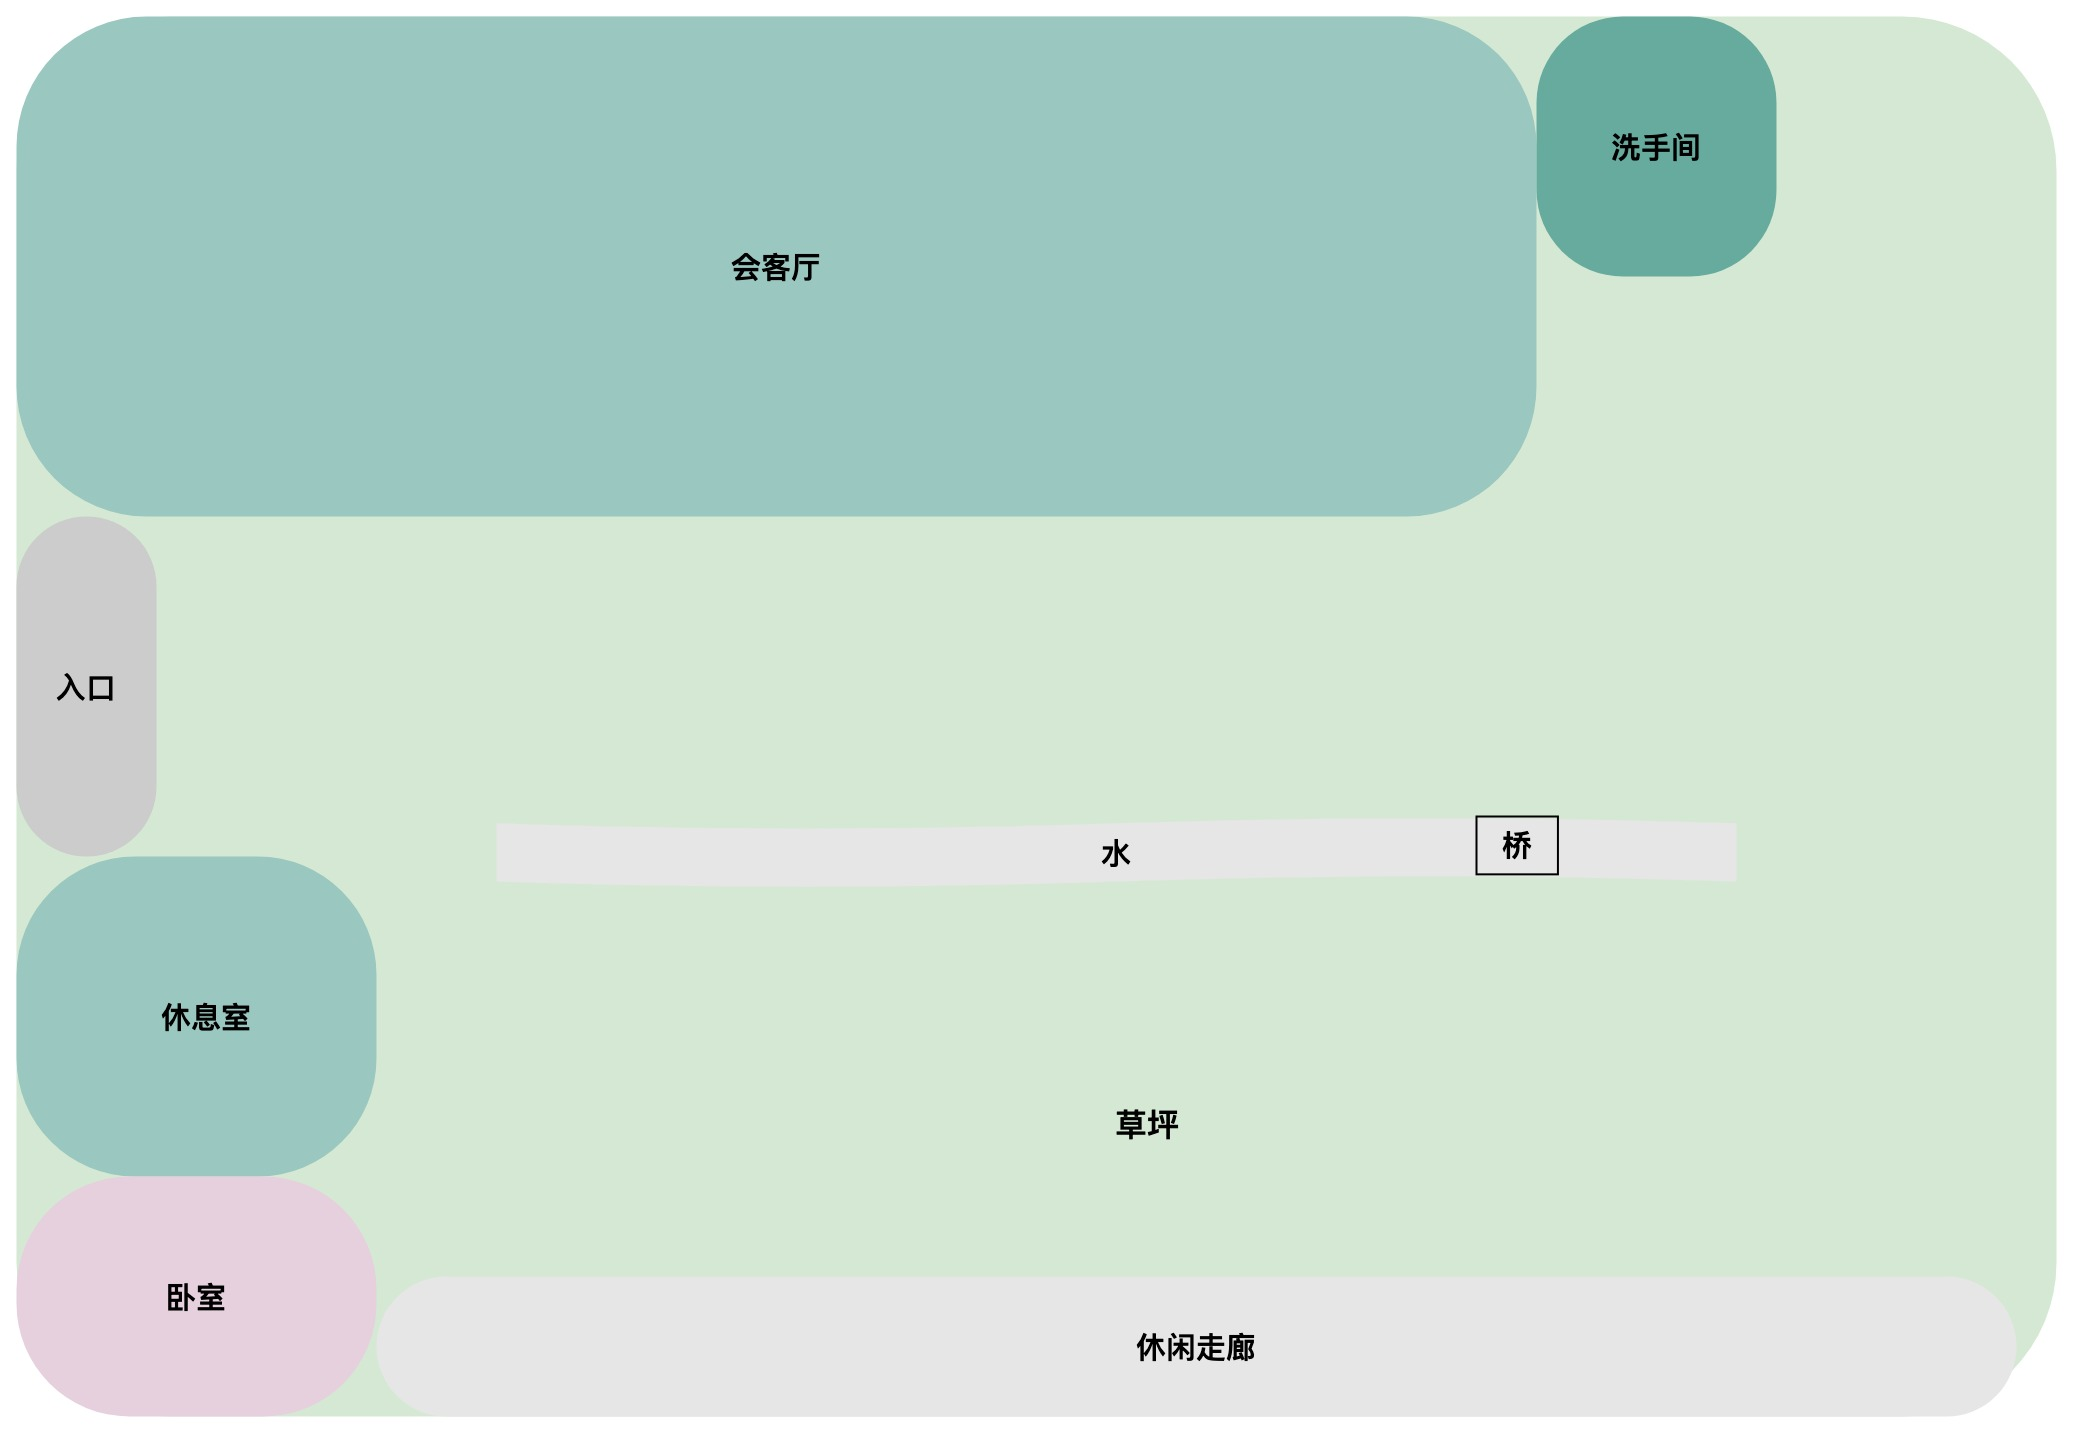
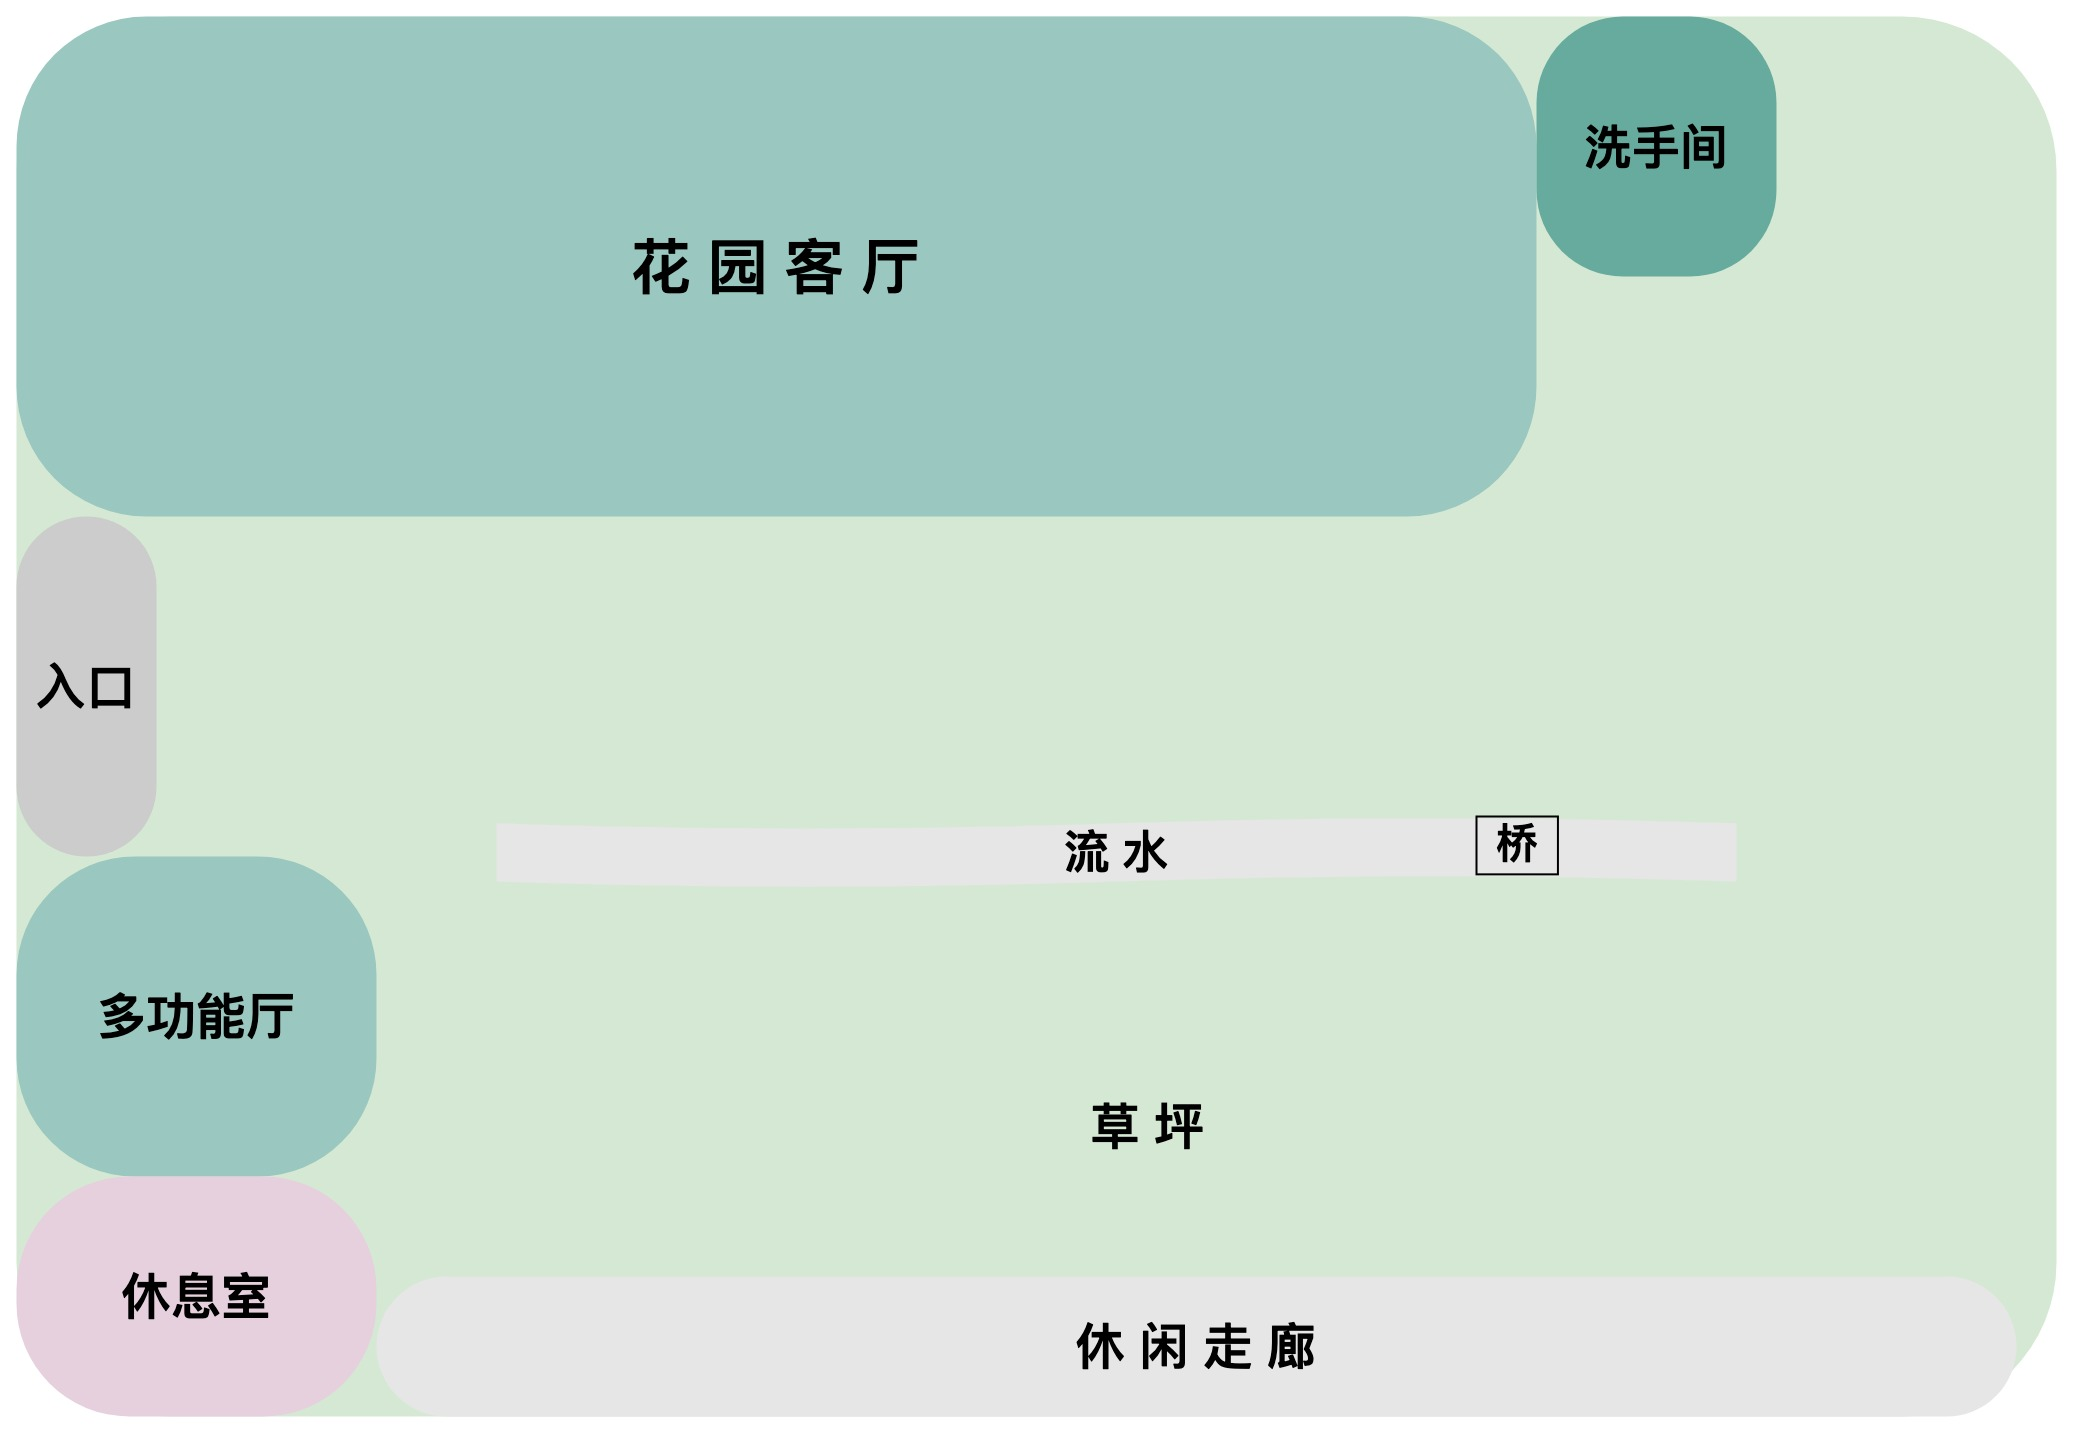
feat:增加若干功能，马上完工版本

diff --git a/pages/about.md b/pages/about.md
@@ -1,38 +1,47 @@
 ---
 layout: page
-title: 时间与场地
+title: 关于场地
 permalink: /about
 ---
 
-#### M&J 婚礼游乐园
+<center><b><font face="黑体" color=black size=6>M&J的婚礼场地</font></b></center>
 
-亲爱的家人与朋友   
-我们诚挚的邀请您参加   
-马武和蒋琳在上海举行的婚礼仪式 
-
----     
-**时间**: 2022.5.14  
-**地点**: [织味时光 位于佘北路180号](https://map.baidu.com/poi/%E7%BB%87%E5%91%B3%E6%97%B6%E5%85%89(%E6%9D%BE%E6%B1%9F%E5%BA%97)/@13488427.66,3629798.61,15z?uid=6e5daa33580b7eae2fe67bb9&ugc_type=3&ugc_ver=1&device_ratio=2&compat=1&pcevaname=pc4.1&querytype=detailConInfo&da_src=shareurl)  
-
-<img alt="织味时光图" src="/assets/img/zhiweishiguang/流程图.jpg" width="100%">
-
+----
+<center>我们选择了织味时光作为我们的婚礼场地</center>
+<center>这里四面环山涉水</center>
+<center>这里有可以打滚的草坪、敞亮的花园客厅</center>
+<center>以及一条开满鲜花的休闲走廊</center>
+<center>这里俨然是一处秘密花园</center>
+<center>让我们相约2022年的春末初夏</center>
+<center>相约秘密花园</center>
 ---
-* 花园客厅      
-欢迎您到这边好好休息，也可以组织朋友在这边桌游或者玩游戏     
-plus: 如果当天下雨，我们会在这里举行室内就餐哦   
-<img alt="花园客厅" src="/assets/img/zhiweishiguang/01.jpg" width="100%">
+<img alt="总图" src="/assets/img/zhiweishiguang/流程图.jpg" width="100%">
+<center><font face="黑体" size=2>场地布局图</font></center>       
 
----
-* 多功能厅   
-欢迎您到这边休息，如果想唱K的话，这里也会支持，此外还有一些电子游戏可以体验  
-<img alt="多功能厅" src="/assets/img/zhiweishiguang/03.jpg" width="100%">
+----
+<center><b><font face="黑体" color=black size=4>｜草坪｜</font></b></center>       
+<center>婚礼的主仪式场地</center>
+<center>此外，如果当天天气适宜</center>
+<center>我们将在这里举行室外长桌自助晚宴</center>  
+<img alt="多功能厅" src="/assets/img/zhiweishiguang/04.jpg" width="100%">  
 
----
-* 草坪       
-婚礼的主仪式场地，此外如果天气OK，我们会在这里举行晚餐   
-<img alt="多功能厅" src="/assets/img/zhiweishiguang/04.jpg" width="100%">
+----
+<center><b><font face="黑体" color=black size=4>｜花园客厅｜</font></b></center> 
+<center>一间通透的玻璃阳光房</center>
+<center>哪怕在室内，依然能感受到绿意盎然</center>
+<center>这里有沙发和长桌，可以供大家休息</center>
+<center><i>Plus: 如果当天下雨，我们会在这里进行就餐噢</i></center>
+<img alt="花园客厅" src="/assets/img/zhiweishiguang/01.jpg" width="100%">   
 
----
-* 休闲走廊    
-这里布置了一些户外座位，可以与三两好友来这里聊天或者小酌一杯      
+----
+<center><b><font face="黑体" color=black size=4>｜多功能厅｜</font></b></center>  
+<center>欢迎大家在这边休息</center>
+<center>这里提供KTV设施及电子游戏</center>
+<center>另外，这里还有桌游及麻将设施</center>
+<img alt="多功能厅" src="/assets/img/zhiweishiguang/03.jpg" width="100%">  
+
+----
+<center><b><font face="黑体" color=black size=4>｜休闲走廊｜</font></b></center> 
+<center>这里布置了一些户外座位</center>
+<center>可以与三两好友在这里聊天或小酌一杯</center>    
 <img alt="多功能厅" src="/assets/img/zhiweishiguang/02.jpg" width="100%">

diff --git a/projects/proj-1.md b/projects/proj-1.md
@@ -3,28 +3,44 @@ layout: post
 title: 'About Us'
 ---
 <center>Hi 我亲爱的家人和朋友</center>
-<center>我们决定于2022年5月14日开始我们人生的新阶段</center>
-<center>你们是我们成长路上最温暖的人，也是我们人生中最重要的部分</center>
+<center>我们决定于</center>
+<center><b>｜2022年5月14日｜</b></center>
+<center>开始我们人生的新阶段</center>
+<center>你们是我们成长路上最温暖的人</center>
 <center>想邀请对我们而言重要的你</center>
 <center>见证一场仪式</center>
 <center>不算盛大却足够用心</center>
-<center>当你们收到这封邀请函，我们已经在倒数着日子，期待着与你们的相见啦</center>
-<center>好久不见，甚是想念，我们婚礼见！</center>
+<center>当你们收到这封邀请函时</center>
+<center>我们已经在倒数着日子 期待着与你们的相见啦</center>
+<center>好久不见，甚是想念 </center>
+<center>我们婚礼见</center>
+-----
 !["we"](/assets/img/wending/01.jpg "We")
 !["we"](/assets/img/wending/06.jpg "We")     
-<center><font face="" color=grey size=5>新娘 蒋琳</font></center> 
+<center><font face="">新娘</font></center> 
+<center><font face=""><b>- 蒋琳 -</b></font></center> 
+<br>
 !["we"](/assets/img/wending/04.jpg "We")
+
+----
 <center>未曾相逢先一笑，初会便已许平生 </center>
-<center>今晚月色真好    </center>
-<center>余生请你指教    </center>
+<center>今晚月色🌙真好    </center>
+<center>余生请你指教    </center>  
+-----
 !["we"](/assets/img/wending/02.jpg "We")
  
-<center><font color=grey size=5>新郎 马武</font></center> 
+<center><font face="">新郎</font></center> 
+<center><font face=""><b>- 马武 -</b></font></center>
+<br>
 !["we"](/assets/img/wending/05.jpg "We")
+
+----
 <center>如这山间清晨一般明亮清爽</center> 
 <center>如奔赴古城道路上阳光一般</center>  
 <center>温暖而不炙热</center>     
 <center>从清晨到夜晚，由山野到书房</center>    
 <center>是你❤真好</center>     
+----
+
 !["we"](/assets/img/wending/08.jpg "We")
 !["we"](/assets/img/wending/09.jpg "We" width="50%" height="50%")

diff --git a/projects/proj-4.md b/projects/proj-4.md
@@ -3,17 +3,19 @@ layout: post
 title: '场地交通'
 ---
 #### 位置  
-知味时光位于📍[松江区佘北路180号](https://map.baidu.com/poi/%E7%BB%87%E5%91%B3%E6%97%B6%E5%85%89(%E6%9D%BE%E6%B1%9F%E5%BA%97)/@13492159.66,3628121.11,13z?uid=6e5daa33580b7eae2fe67bb9&ugc_type=3&ugc_ver=1&device_ratio=2&compat=1&pcevaname=pc4.1&querytype=detailConInfo&da_src=shareurl)
+- 织味时光位于📍[松江区佘北路180号](https://map.baidu.com/poi/%E7%BB%87%E5%91%B3%E6%97%B6%E5%85%89(%E6%9D%BE%E6%B1%9F%E5%BA%97)/@13492159.66,3628121.11,13z?uid=6e5daa33580b7eae2fe67bb9&ugc_type=3&ugc_ver=1&device_ratio=2&compat=1&pcevaname=pc4.1&querytype=detailConInfo&da_src=shareurl)
+
+- 场地坐落于上海月湖雕塑公园旁，从秋月舫主题餐厅-西北门进入可快速到达场地       
+- Tips:上海月湖雕塑公园出入口较多，进园会收取门票    
+  *我们与场地方达成了合作，从秋月舫-西北门进入的各位将不会被收取门票*
+   
 ![pic1](/assets/img/zhiweishiguang/飞书20220213-104348.jpg "1")
 
-场地坐落于上海月湖雕塑公园旁边，从秋月舫主题餐厅-西北门进入可快速到达场地    
-Tips：上海月湖雕塑公园出入口较多，进园会收取门票         
 
 #### 地铁  
 - 地铁9号线：佘山站 驾车4公里 约6分钟   
 - 地铁17号线：赵巷站 驾车8公里 约18分钟   
 
 #### 散场
-- 散场后或者有需求提前离场(bless not)     
-- 宴席结束后，我们会安排车辆送各位宾客至赵巷站或佘山站   
-- tips:最好是提前约好同伴一起哦，嘻嘻~~  
+- 宴席结束后，我们会安排车辆送各位宾客至赵巷站或佘山站
+- Tips: 可提前约同伴一起噢

diff --git a/projects/proj-3.md b/projects/proj-3.md
@@ -2,10 +2,9 @@
 layout: post
 title: '仪式流程'
 ---
-- 感谢大家抽出时间来参加我们的婚礼       
-- 现将整个婚礼仪式环节同步出来，如果有什么建议，请随时反馈         
-- **最最重要的，请不要拘束，玩的开心～make some noise～**
-- 希望每个人都可以玩的开心，有段快乐的记忆， 让我们嗨起来🔥🔥    
+- 感谢大家抽出宝贵的时间来参加我们的婚礼       
+- **最最重要的，请不要拘束，希望大家玩的开心**
+- ～make some noise～ 让我们嗨起来🔥🔥    
 
 ----
 <style>

diff --git a/pages/contact.md b/pages/contact.md
@@ -5,8 +5,8 @@ permalink: /contact
 ---
 
 #### Concat Us
-婚礼过程中出现任何问题, 麻烦及时联系我们处理    
-让您在此过程中的不便感到抱歉，希望大家能留下一个美好的记忆
+婚礼过程中出现任何问题, 请及时联系我们处理    
+让您在此过程中的不便感到抱歉，希望大家能留下美好的回忆
       
 -----------
 - 手机号  
